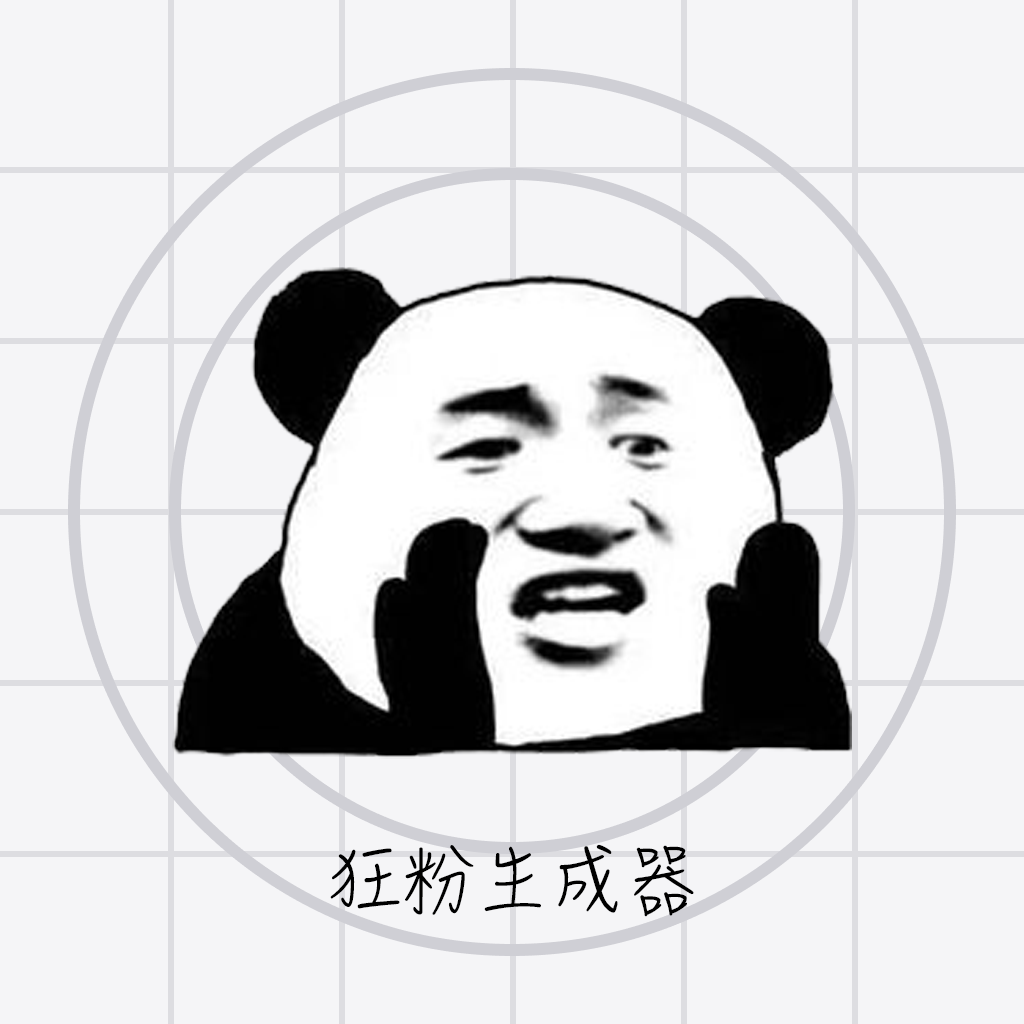
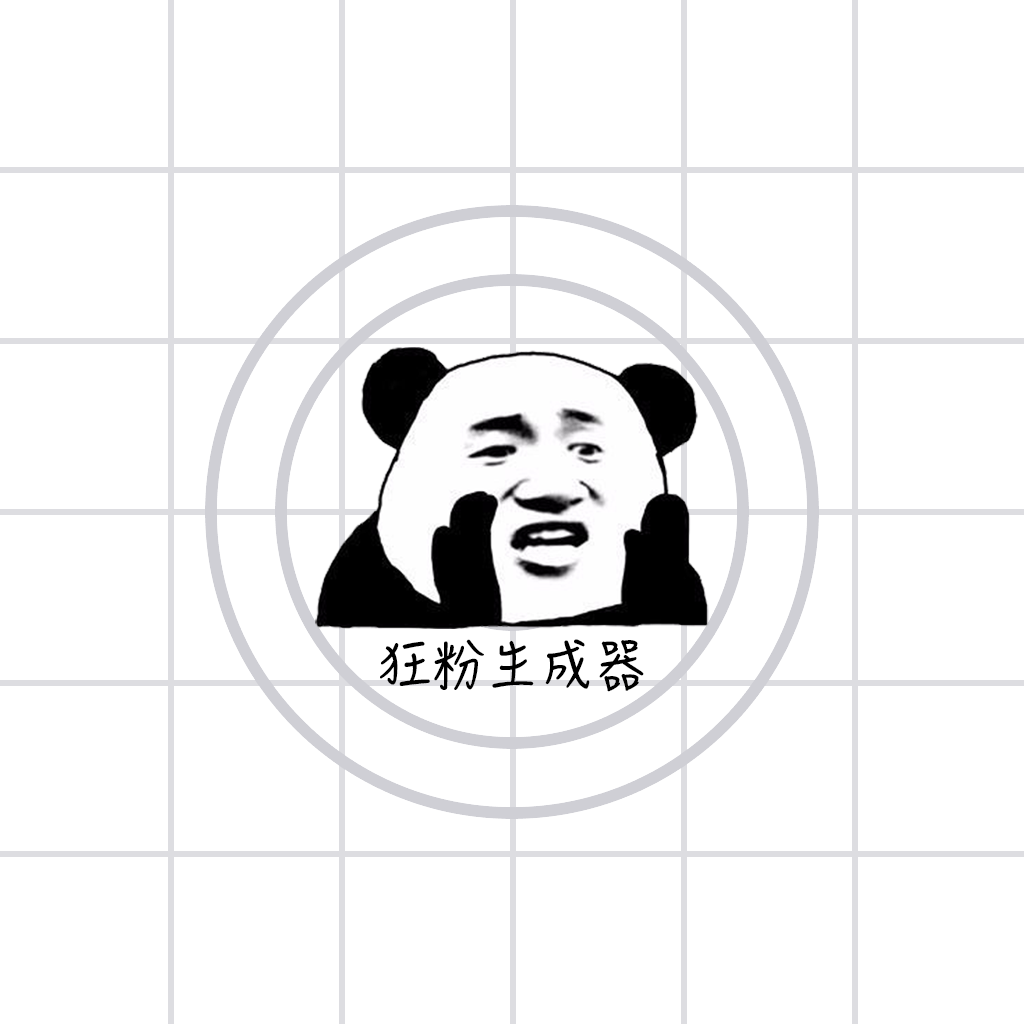
feat:居中

diff --git a/gen-gl-view.js b/gen-gl-view.js
@@ -105,8 +105,9 @@ export default function App(props) {
               scene.add(cube);
               camera.lookAt(scene.position);
 
-              const textMesh = new TextMesh(text || "");
-              textMesh.position.set(-0.48, 0.48, 1);
+              const textMesh = new TextMesh(text || "IDOL");
+              textMesh.position.set(0, 22 * 0.01 * ratio, 0);
+
               scene.add(textMesh);
 
               const render = () => {
@@ -137,15 +138,24 @@ class ImageMesh extends Mesh {
   }
 }
 
+const generateTextMeshGeometry = (message) => {
+  const shapes = font.generateShapes(message, 30 * 0.01);
+  const geometry = new ShapeGeometry(shapes);
+  geometry.computeBoundingBox();
+  const xMid = -0.5 * (geometry.boundingBox.max.x - geometry.boundingBox.min.x);
+  const yMid = -0.5 * (geometry.boundingBox.max.y - geometry.boundingBox.min.y);
+  geometry.translate(xMid, yMid, 0);
+  return geometry;
+};
 class TextMesh extends Mesh {
-  constructor(text) {
+  constructor(message) {
     super(
-      new ShapeGeometry(font.generateShapes(text, 0.24)),
+      generateTextMeshGeometry(message),
       new MeshBasicMaterial({
         color: 0xff0000,
         transparent: true,
         opacity: 1,
-        // side: THREE.DoubleSide,
+        side: THREE.DoubleSide,
       })
     );
   }

diff --git a/App.js b/App.js
@@ -27,12 +27,12 @@ export const InputView = ({ onOk, value, setValue }) => {
         style={{ paddingLeft: 8, paddingRight: 8 }}
       >
         <Center>
-          <Heading>Input your IDOL's name</Heading>
+          <Heading>支持你喜欢的爱豆</Heading>
         </Center>
         <Input
           value={value}
           onChangeText={handleChange}
-          placeholder="Input your IDOL's name"
+          placeholder="键入你的爱豆"
           InputRightElement={
             <Button
               ml={1}
@@ -40,7 +40,7 @@ export const InputView = ({ onOk, value, setValue }) => {
               roundedRight="md"
               onPress={handleClick}
             >
-              Submit
+              确认
             </Button>
           }
         />
@@ -50,7 +50,7 @@ export const InputView = ({ onOk, value, setValue }) => {
 };
 
 export default function App() {
-  const initialText = "IDOL";
+  const initialText = "";
   const [value, setValue] = useState(initialText);
   const [text, setText] = useState(initialText);
   const onOk = (val) => {
